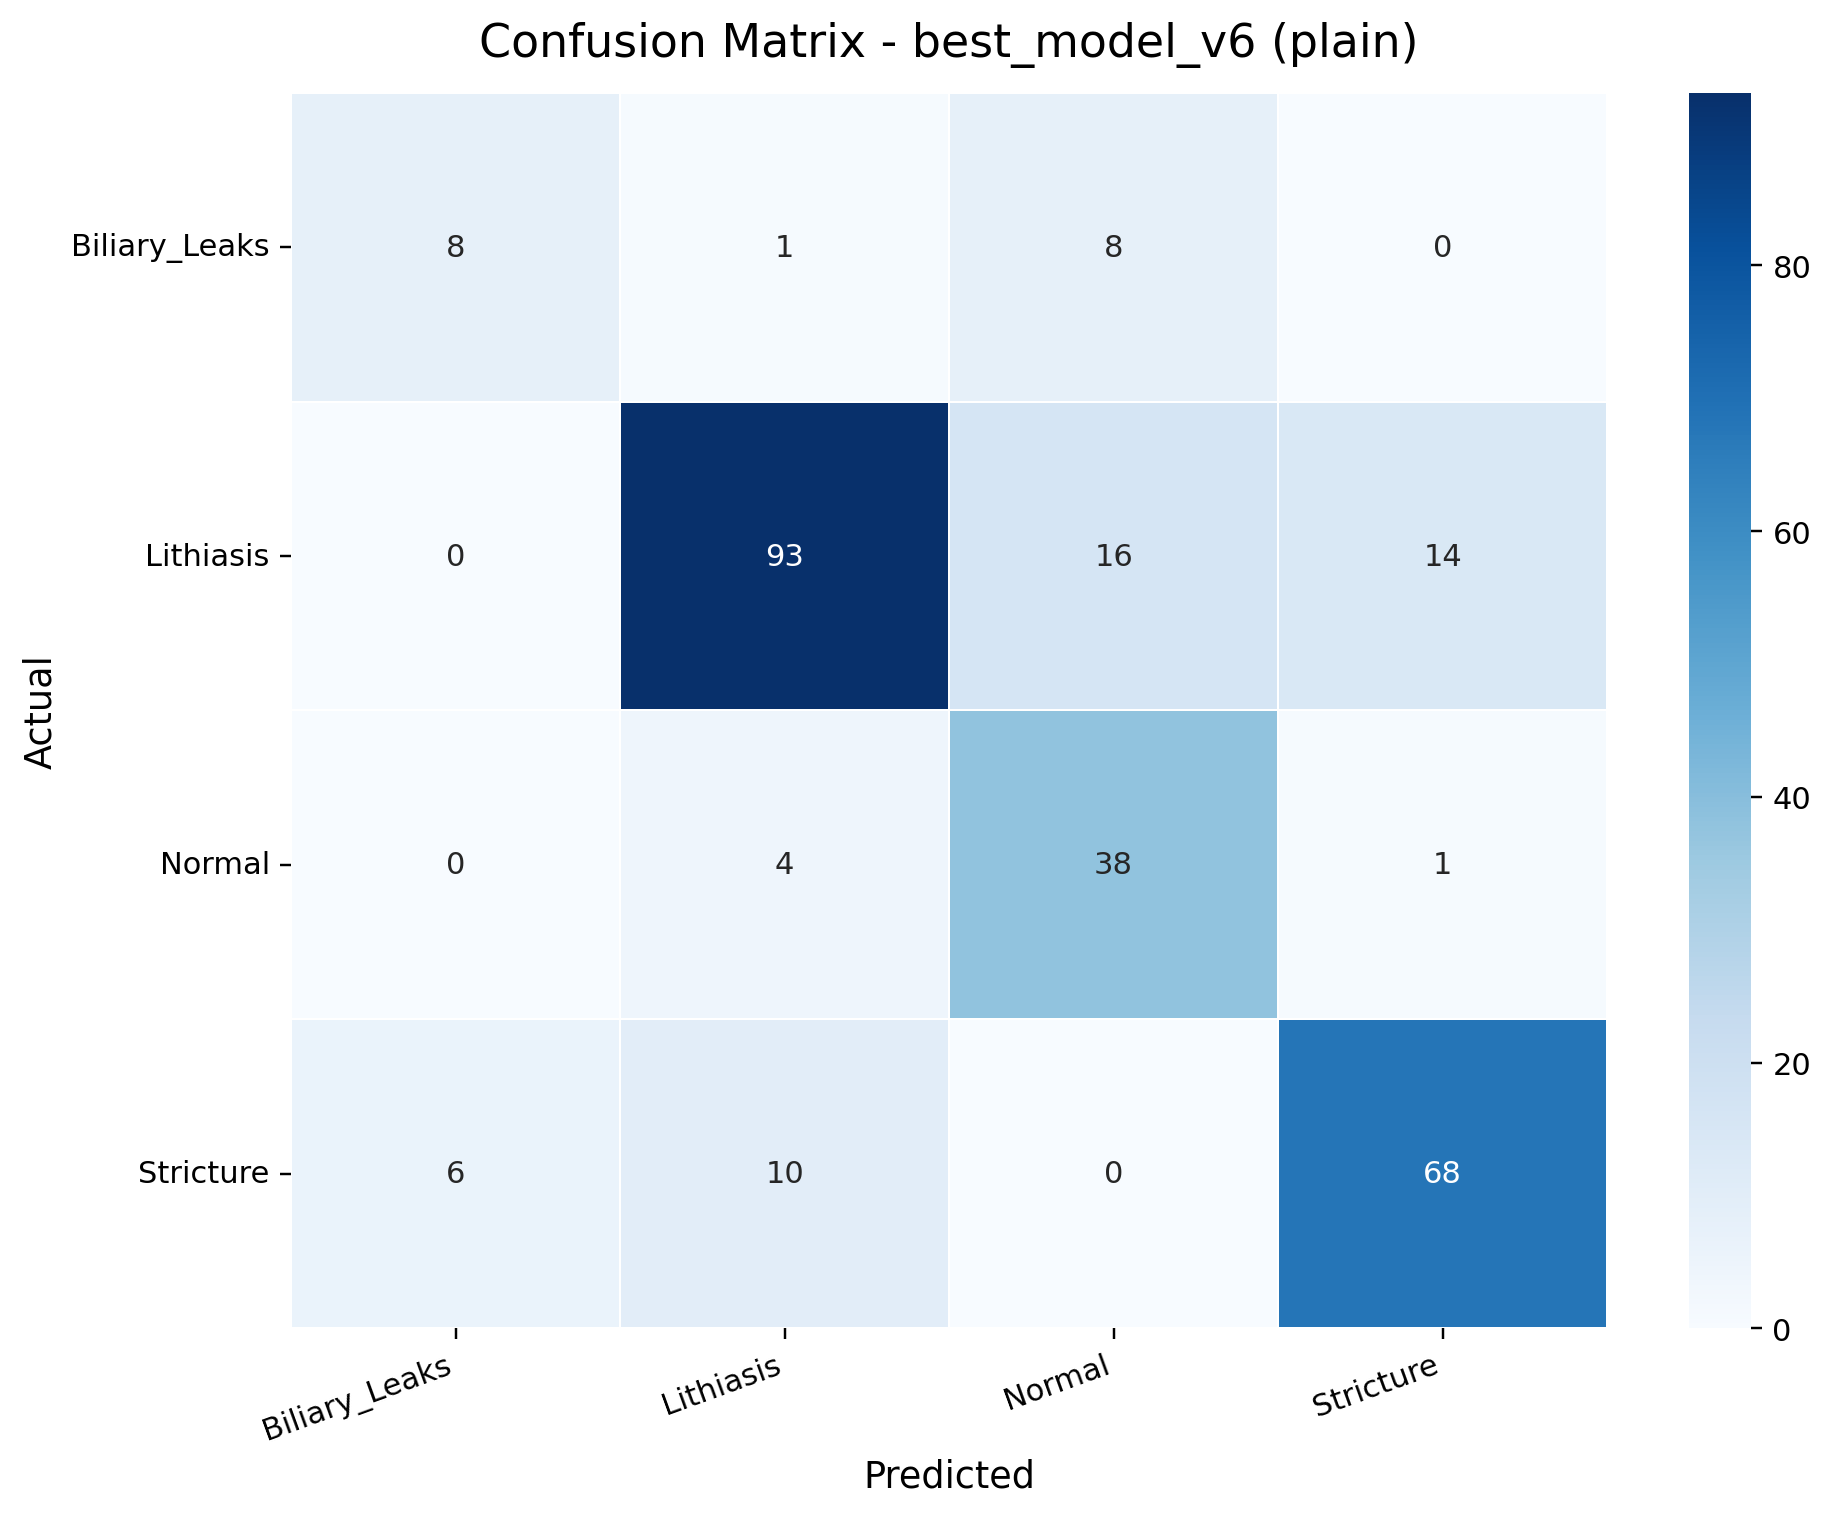
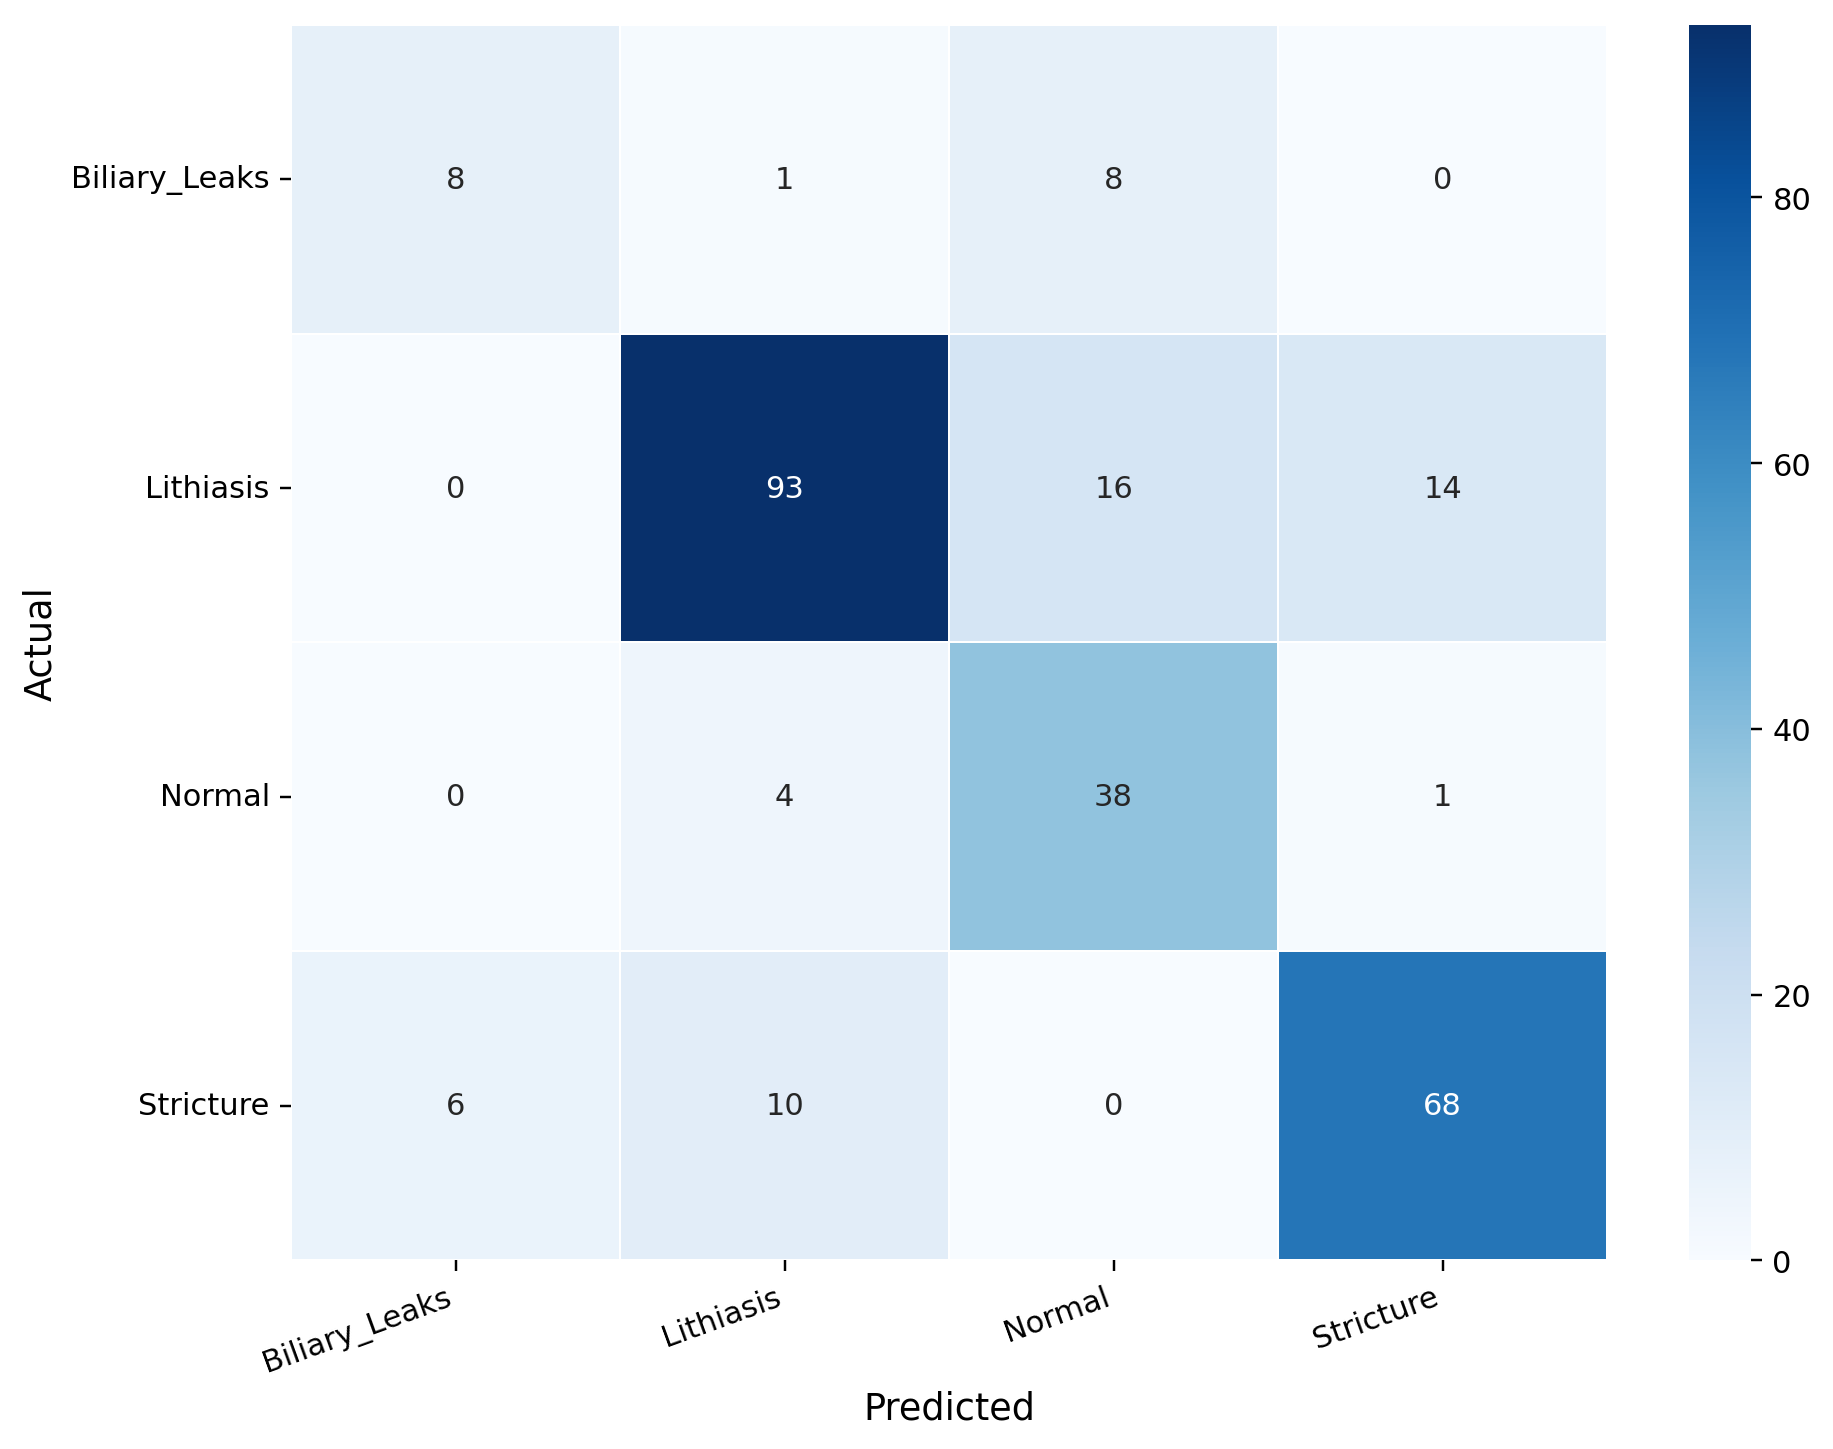
last

diff --git a/README.md b/README.md
@@ -1,113 +1,164 @@
 # AP-TP2
 
-Resumo
--
-Projeto do Módulo 2 (AP) — Trabalho de Grupo: implementação de modelos e ensemble para classificação. Este repositório contém código, dados (quando possíveis), scripts de treino e avaliação, e exemplos para reproduzir os resultados obtidos.
+## Visão Geral
 
-Conteúdo do repositório
--
-- `Treino.py` — script principal de treino (ver parâmetros no cabeçalho).
-- `TreinoBinarySpecialist.py` — variante de treino para especialistas binários.
-- `TreinoEnsemble.py`, `Ensemble3.py`, `ensembleCascade.py`, `ensembleTest.py` — implementações e testes de ensemble.
-- `Dataloader.py`, `Dataloader_inicial.py`, `DataLoaderEnsemble.py`, `ComparacaoDataloader.py` — carregamento e preparação de dados.
-- `evaluate.py` — script para avaliar modelos a partir de checkpoints.
-- `Confusion_matrix_v6.py`, `confusion_matrix_v6.py` — utilitários para gerar matrizes de confusão e métricas.
-- `Attention_maps.py` — geração de mapas de atenção (se aplicável).
-- `demo.ipynb` — notebook com exemplos de uso e visualizações.
-- `checkpoints/` — pasta com checkpoints (não commitar grandes modelos; incluir apenas o necessário para reprodução).
+Este repositório contém o trabalho de grupo da unidade curricular de AP, centrado em classificação de imagens médicas com redes neurais profundas, comparação de arquiteturas e combinação de modelos em ensemble.
 
-Requisitos e ambiente
--
-Recomendado: Python 3.8+ e ambiente virtual. Instalar dependências com:
+O objetivo do projeto foi estudar o impacto de diferentes modelos e estratégias de treino na identificação de quatro classes:
 
-Windows / PowerShell
+- `Biliary_Leaks`
+- `Lithiasis`
+- `Normal`
+- `Stricture`
 
+O código do projeto também está disponível no GitHub em:
+
+https://github.com/RuiRodrigues17/AP-TP2.git
+
+## Estrutura do Repositório
+
+### Fluxo principal
+
+- `Treino.py` — treino principal do modelo base.
+- `Dataloader.py` — carregamento e preparação dos dados do fluxo principal.
+- `evaluate.py` — avaliação de checkpoints já treinados.
+- `Attention_maps.py` — geração de mapas de atenção para inspeção visual.
+- `demo.ipynb` — demonstração interativa com exemplos de execução e visualização.
+- `checkpoints/` — modelos treinados e checkpoints guardados durante os experimentos.
+
+### Variações, especialistas e testes
+
+- `TreinoBinarySpecialist.py` — treino de um especialista binário.
+- `Dataloader_inicial.py` — versão inicial do carregamento de dados usada em fases anteriores.
+- `DataLoaderEnsemble.py` — dataloader adaptado para cenários de ensemble.
+- `TreinoEnsemble.py` — treino de variantes usadas em ensemble.
+- `Ensemble3.py` — combinação de três modelos.
+- `ensembleCascade.py` — abordagem com um especialista.
+- `ensembleTest.py` — teste final do ensemble sem treino.
+- `ComparacaoDataloader.py` — comparação entre carregamentos/preparações de dados.
+- `Confusion_matrix_v6.py` — geração e análise de matrizes de confusão.
+
+## Dados
+
+Os dados não estão na pasta de entrega ZIP. Eles estão disponíveis no repositório do GitHub do link acima.
+
+O layout esperado é o seguinte:
+
+```text
+dataset/
+  train/
+    Biliary_Leaks/
+    Lithiasis/
+    Normal/
+    Stricture/
+  val/
+    Biliary_Leaks/
+    Lithiasis/
+    Normal/
+    Stricture/
+  test/
+    Biliary_Leaks/
+    Lithiasis/
+    Normal/
+    Stricture/
 ```
+
+Os scripts de treino e avaliação assumem esta organização ao chamar `get_dataloaders(...)`.
+
+## Requisitos
+
+Recomendado:
+
+- Python 3.8 ou superior
+- Ambiente virtual dedicado
+- CUDA/GPU
+
+Instalação típica em Windows:
+
+```bash
 python -m venv .venv
-.\.venv\Scripts\Activate.ps1
+\.venv\Scripts\Activate.ps1
 pip install --upgrade pip
-pip install -r requirements.txt
+pip install -r Requirements.txt
 ```
 
-Linux / macOS
+## Como Executar
 
-```
-python3 -m venv .venv
-source .venv/bin/activate
-pip install --upgrade pip
-pip install -r requirements.txt
-```
+### 1. Treino do modelo principal
 
-Arquivo de dependências
--
-Veja `requirements.txt` para a lista completa de pacotes e versões usadas.
-
-Executar os experimentos (exemplos)
--
-1) Treino de um modelo (exemplo genérico)
-
-```
-python Treino.py --epochs 50 --batch-size 32 --data-path PATH_PARA_DADOS --output checkpoints/saida.pth
+```bash
+python Treino.py
 ```
 
-2) Treino de ensemble (exemplo)
+### 2. Treino do especialista
 
-```
-python TreinoEnsemble.py --models model1,model2 --data-path PATH_PARA_DADOS --output checkpoints/ensemble.pth
-```
-
-3) Avaliação a partir de checkpoint
-
-```
-python evaluate.py --checkpoint checkpoints/saida.pth --data-path PATH_PARA_DADOS --out-dir results/
+```bash
+python TreinoBinarySpecialist.py
 ```
 
-4) Executar o notebook de demonstração
+### 3. Avaliação de um checkpoint
 
-Abra `demo.ipynb` no Jupyter / VSCode e execute as células na ordem.
-
-Parâmetros e seeds
--
-Para reprodução exacta, fixe as seeds (quando suportado pelos scripts) e especifique `--seed 42` (ou outra seed usada nos relatórios). Se os scripts não expõem seed via CLI, edite o início do script para definir a seed global (NumPy, random e framework ML usado).
-
-Dados
--
-Se os dados não estiverem incluídos neste repositório, siga as instruções no relatório (ou no cabeçalho dos scripts) para obter e preparar os datasets. Os argumentos `--data-path` usados nos exemplos devem apontar para a pasta com as imagens/CSV organizados conforme esperado pelo `Dataloader.py`.
-
-Uso em Google Colab / estrutura alternativa
--
-Muitos dos treinos e experimentos foram executados em Google Colab, pelo que existe uma estrutura alternativa de ficheiros/paths usada nos notebooks. Notas importantes para reproduzir em Colab:
-
-- Ativar GPU: Runtime → Change runtime type → Hardware accelerator → GPU.
-- Montar o Google Drive para ler/gravar dados e checkpoints:
-
-```
-from google.colab import drive
-drive.mount('/content/drive')
+```bash
+python evaluate.py --checkpoint checkpoints/best_model_v6.pth --data-path dataset
 ```
 
-- Clonar o repositório no Colab ou enviar o zip para o Drive e descompactar:
+### 4. Teste do ensemble
 
-```
-!git clone <URL_DO_REPO>
-%cd AP-TP2
-pip install -r requirements.txt
+```bash
+python ensembleTest.py
 ```
 
-- Paths típicos usados no Colab:
-	- Dados: `/content/drive/MyDrive/path_para_dados/`
-	- Checkpoints: `/content/drive/MyDrive/AP-TP2/checkpoints/`
-	- Resultados/figuras: `/content/drive/MyDrive/AP-TP2/results/`
+### 5. Geração de mapas de atenção
 
-- Para garantir que os scripts escrevem diretamente no Drive (evita perda de dados ao terminar a sessão), passe `--output /content/drive/MyDrive/AP-TP2/checkpoints/saida.pth` ou configure `--out-dir` para uma pasta no Drive.
+```bash
+python Attention_maps.py
+```
 
-- O `demo.ipynb` pode ter células que assumem paths do Drive; verifique e ajuste os caminhos locais antes de executar.
+### 6. Notebook de demonstração
 
-- Aviso: alguns checkpoints e ficheiros de resultados referenciados no relatório podem não estar incluídos no repositório porque ficaram apenas no Drive do autor. Nesse caso, os ficheiros essenciais para reprodução devem ser adicionados ao zip de submissão (ver secção "Como gerar o ficheiro ZIP para submissão").
+Abrir `demo.ipynb` no Jupyter ou no VS Code e executar as células por ordem.
 
-Ficheiros de saída e onde encontrar resultados
--
-- Checkpoints: `checkpoints/`
-- Matrizes de confusão e figuras: `results/` (ou pasta indicada com `--out-dir`)
-- Logs de treino: caso os scripts escrevam logs, estarão na pasta `logs/` ou conforme o parâmetro de saída.
+## Checkpoints
 
+A pasta `checkpoints/` guarda os pesos dos modelos treinados. Entre os ficheiros mais relevantes estão:
+
+- `best_model_v6.pth` (o nosso melhor modelo)
+- `convnext-base-flips.pth`
+- `best_convnext_v4.pth`
+- outros checkpoints usados em testes e comparações
+
+Estes ficheiros são essenciais para reproduzir os resultados sem voltar a treinar do zero.
+
+## Scripts de Comparação e Ensemble
+
+Os scripts abaixo foram usados para comparar abordagens ou testar combinações de modelos:
+
+- `ensembleTest.py` — mistura de probabilidades entre dois modelos já treinados.
+- `TreinoEnsemble.py` — treino de estratégias específicas de ensemble.
+- `Ensemble3.py` — comparação de três modelos.
+- `ensembleCascade.py` — ensemble com um modelo especialista.
+- `ComparacaoDataloader.py` — análise de impacto das alterações no dataloader.
+- `Confusion_matrix_v6.py` — geração de matriz de confusão para o modelo v6.
+
+## Resultados e Saídas
+
+Dependendo do script executado, os resultados podem ser guardados em:
+
+- `checkpoints/` — pesos dos modelos e melhores épocas
+- `results/` — figuras, métricas e saídas auxiliares, quando aplicável
+- `wandb/` — logs e métricas experimentais, se o Weights & Biases estiver ativo
+
+## Observações de Uso
+
+- O projeto foi desenvolvido com várias iterações de treino e teste, por isso existem scripts com funções semelhantes mas objetivos diferentes.
+- Alguns ficheiros foram mantidos para comparação histórica entre arquiteturas e dataloaders.
+- Para executar em GPU, basta garantir que o PyTorch está instalado com suporte CUDA e que o dispositivo é detetado corretamente.
+
+## Resumo Rápido
+
+Se quiser apenas reproduzir a parte principal do projeto, a ordem mais direta é:
+
+1. Preparar os dados na estrutura esperada.
+2. Treinar com `Treino.py` ou usar checkpoints já existentes.
+3. Avaliar com `evaluate.py`.
+4. Consultar `demo.ipynb` e `Attention_maps.py` para visualização.
